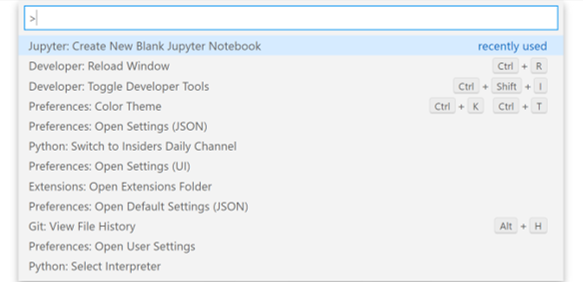
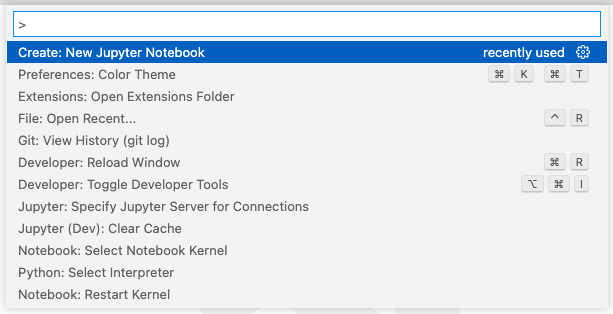
Update create new nb instruction, remove old ipynb (#10686)
* Update create new nb instruction, remove old ipynb

* Updates to images

diff --git a/README.md b/README.md
@@ -56,7 +56,7 @@ The Jupyter Extension supports other languages in addition to Python such as Jul
 
 ## Notebooks Quick Start
 
--   To create a new notebook open the command palette (Windows: Ctrl + Shift + P, macOS: Command + Shift + P) and select the command `"Jupyter: Create New Jupyter Notebook"`
+-   To create a new notebook open the command palette (Windows: Ctrl + Shift + P, macOS: Command + Shift + P) and select the command `"Create: New Jupyter Notebook"`
 
     <img src=https://raw.githubusercontent.com/microsoft/vscode-jupyter/main/images/Jupyter%20README/CreateNewNotebook.png>
 
@@ -74,7 +74,7 @@ Open the Command Palette (Command+Shift+P on macOS and Ctrl+Shift+P on Windows/L
 
 | Command                                          | Description                                                            |
 | ------------------------------------------------ | ---------------------------------------------------------------------- |
-| `Jupyter: Create New Jupyter Notebook`           | Create a new blank Jupyter Notebook                                    |
+| `Create: New Jupyter Notebook`           | Create: New Jupyter Notebook                                    |
 | `Notebook: Select Notebook Kernel`               | Select or switch kernels within your notebook                          |
 | `Notebook: Change Cell Language`                 | Change the language of the cell currently in focus                     |
 | `Jupyter: Export to HTML Jupyter: Export to PDF` | Create a presentation-friendly version of your notebook in HTML or PDF |
